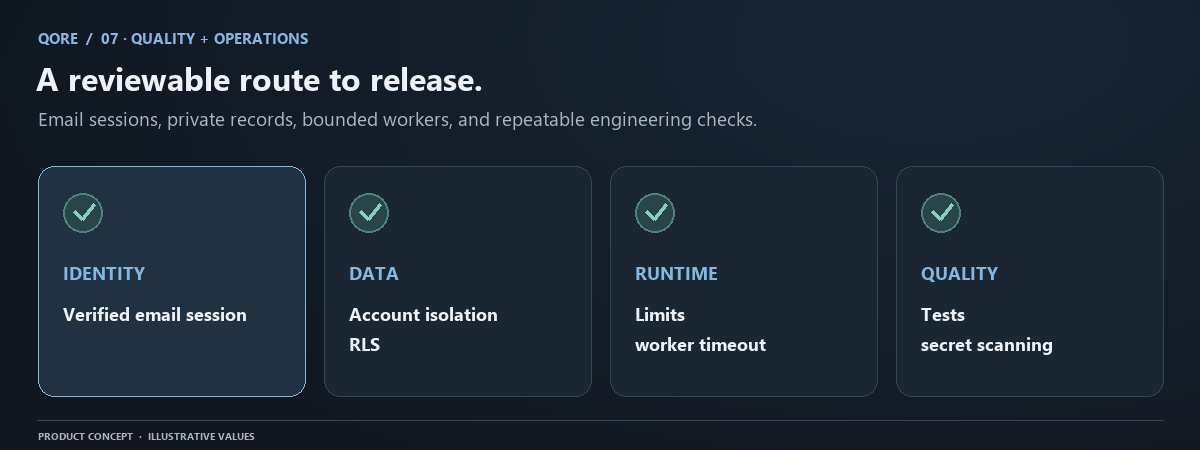
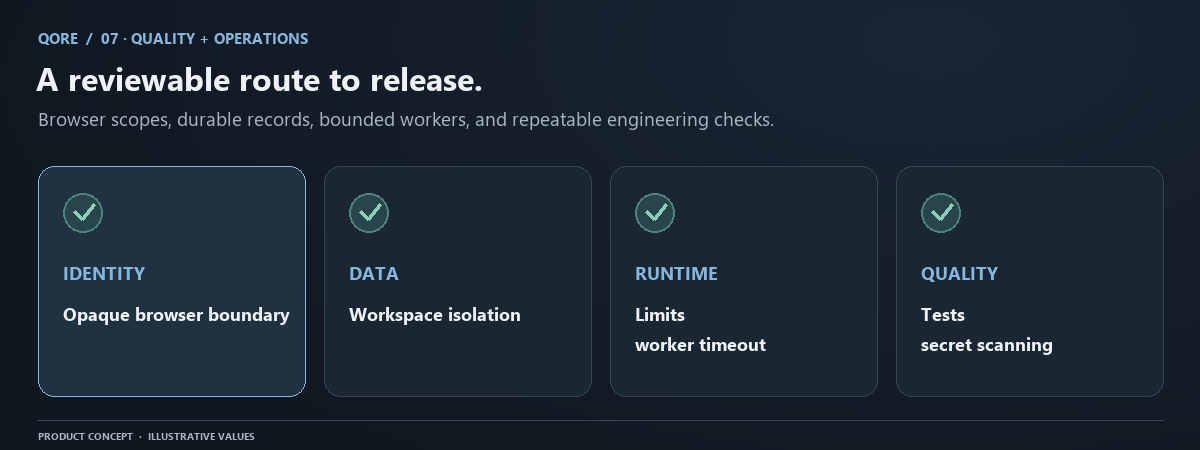
docs: clarify problem statement and refresh operations visual

diff --git a/README.md b/README.md
@@ -4,6 +4,10 @@
 
 [Open QORE](https://qore-bmh1.onrender.com/) · [Documentation](https://qoredocs.vercel.app/) · [Manual sources](docs/README.md) · [Report an issue](https://github.com/ganeshkumarchalla/Qore/issues)
 
+## Problem statement
+
+Quantum development is often split across disconnected editors, simulators, state visualizers, compiler tools, and experiment records. That fragmentation makes it easy to misread sampled output, lose execution context, compare stale results, or accept an optimization without evidence that it preserved the circuit. QORE brings source, bounded Qiskit and OpenQASM execution, ideal and sampled results, compiler validation, and reproducible experiment records into one traceable workspace.
+
 QORE brings an editor, quantum simulator, visual laboratory, compiler workbench, and research ledger into one consistent glass interface. Write a circuit in the supported Qiskit Python subset or OpenQASM 2. Inspect actual simulator output, compare a compiler candidate, and preserve the source and evidence behind an experiment.
 
 The workspace starts empty. **Get Started** creates a three-qubit learning circuit only when requested. No account is required: editable source is retained in the browser workspace, while server-side projects and evidence are isolated by an opaque HttpOnly workspace cookie. Saved files have no automatic expiry; deleted files and folders remain recoverable for **48 hours** through Undo and Trash.
